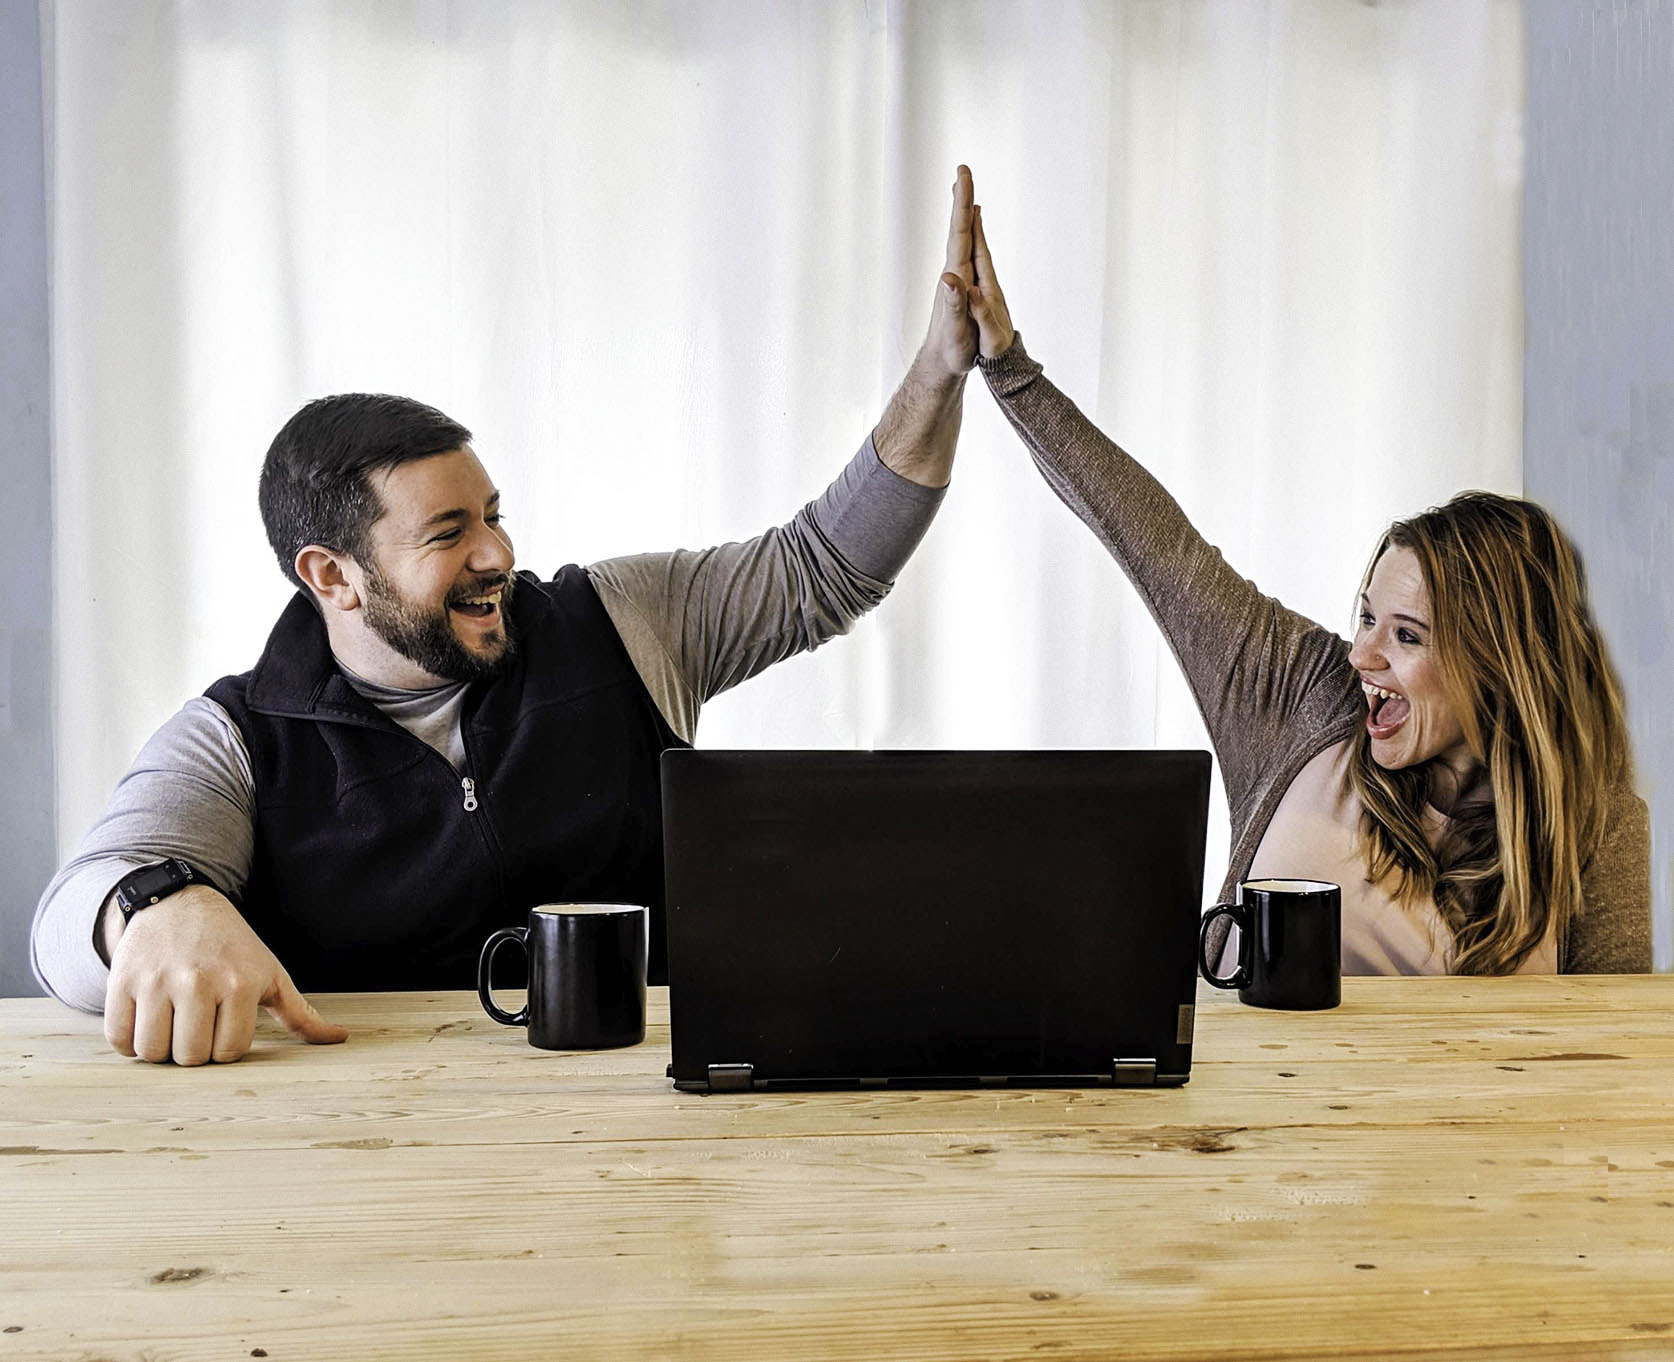
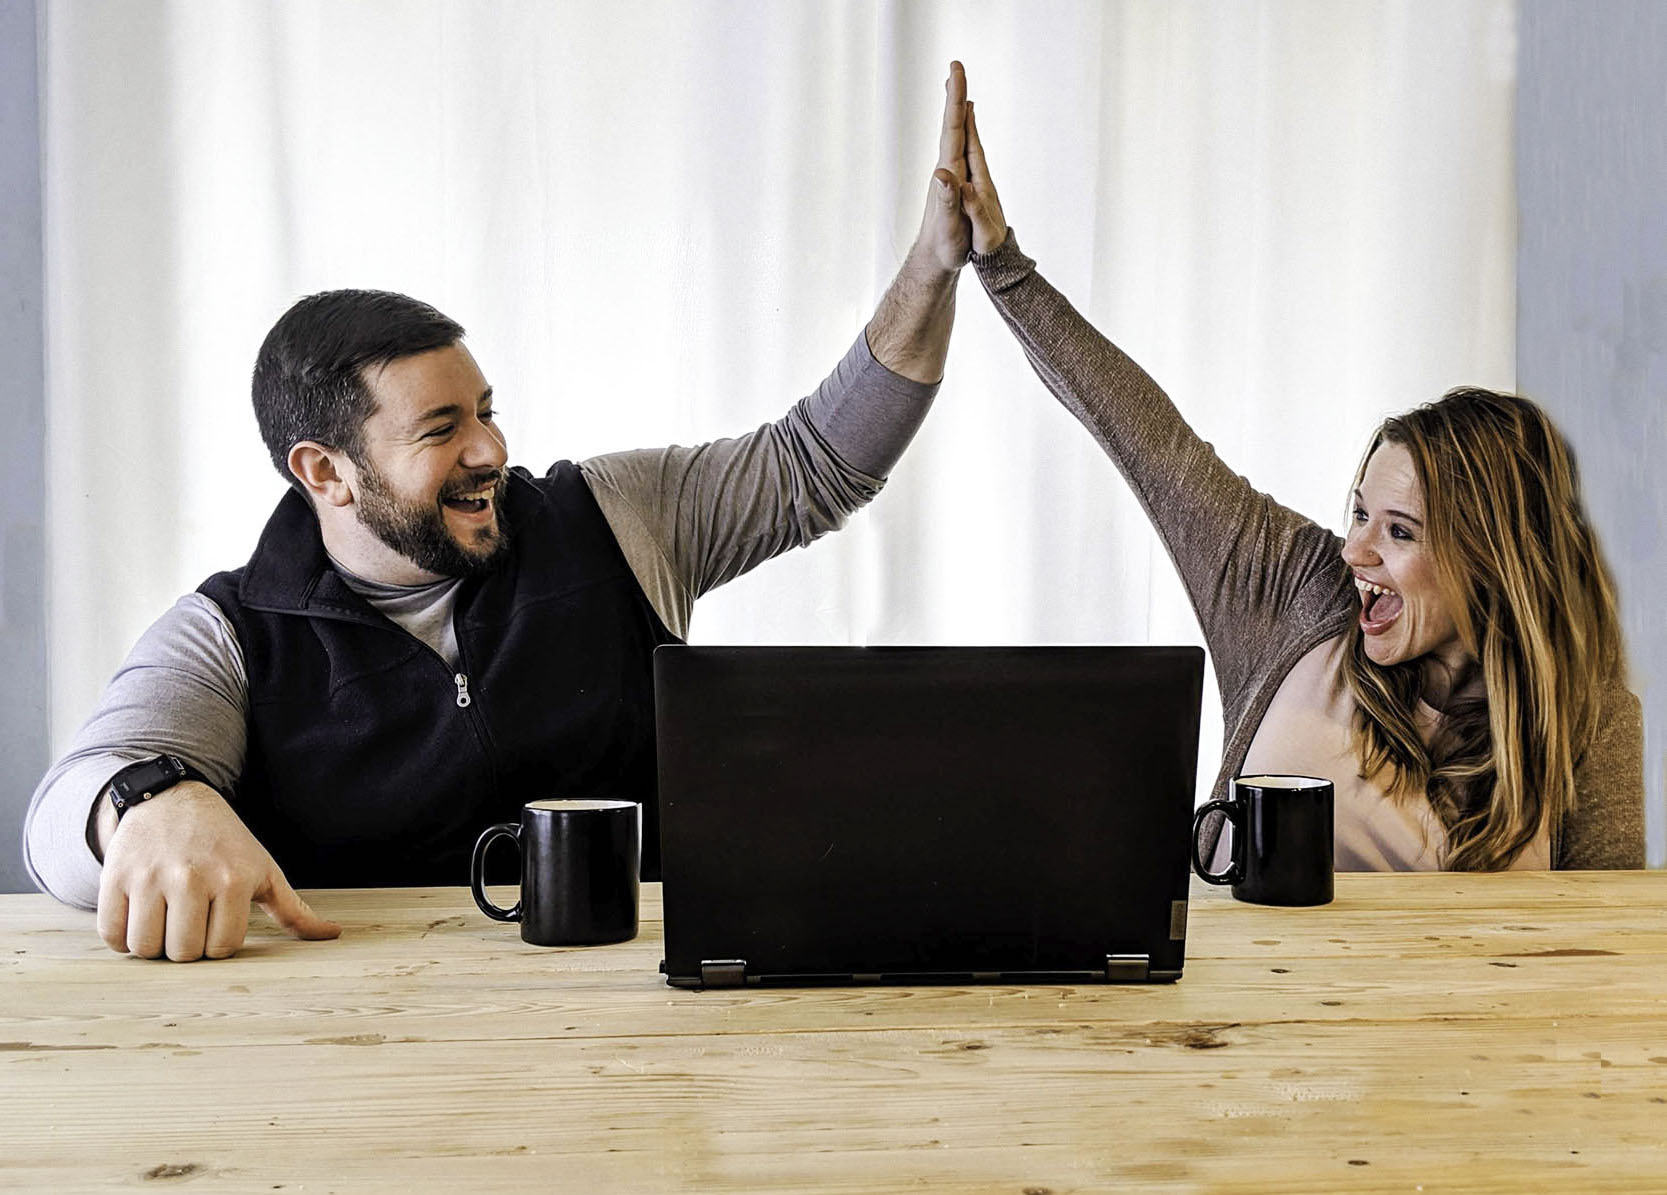
started updating the layout and components

diff --git a/src/pages/index.js b/src/pages/index.js
@@ -1,75 +1,66 @@
-import React, { Component } from 'react';
-import { Link } from 'gatsby';
-import Container from '../components/container';
-import Navbar from '../components/Navbar/Navbar';
-import Appnav from '../components/Navbar/AppNav';
-import SiteMetadata from '../components/Site-Metadata';
-import '../assets/main.css';
+import React, { Component } from "react";
+import { Link } from "gatsby";
+
+import Container from "../components/container";
+import Appnav from "../components/Navbar/AppNav";
+import SiteMetadata from "../components/Site-Metadata";
+import "../assets/main.css";
 
 export default class index extends Component {
   render() {
     return (
       <div style={{ height: `100%` }}>
         <SiteMetadata pathname={this.props.location.pathname} />
-        <Navbar />
-        <main className="home">
+        <main>
           <Container>
-            <div style={{ textAlign: `center`, marginTop: `4rem` }}>
-              <h1>websites.</h1>
-              <h1>social media.</h1>
-              <h1>online presence.</h1>
-              <h1>all local to 417.</h1>
+            <div
+              style={{
+                width: `100%`,
+                height: `100vh`,
+                backgroundImage: `url(https://res.cloudinary.com/tpage99/image/upload/v1550803731/web%20assets/highfive2.jpg)`,
+                backgroundPosition: `center center`,
+                backgroundRepeat: `no-repeat`,
+                objectFit: `cover`
+              }}
+            >
+              <h1>the pages media</h1>
             </div>
-            <section className="grid" style={{ marginTop: `4rem` }}>
-              <div className="text-block" style={{ padding: `0.5rem 2.5rem 0 2rem` }}>
-                <h2>who we are.</h2>
-                <p>
-                  Hi, we're the Pages! We're a married couple living in the Springfield area that enjoys helping
-                  companies we love become more accessible to others.
-                </p>
-                <p>
-                  We provide social media and web based solutions that help put local businesses within easy reach of
-                  people in the Springfield area, even if they don't know you yet.
-                </p>
+            <section>
+              <div>
+                <h2>services</h2>
               </div>
-              <img
-                src="https://res.cloudinary.com/tpage99/image/upload/v1550802820/web%20assets/website_1-2.jpg"
-                alt="kendra and taylor"
-                className="feature-img"
-              />
-            </section>
-            <section style={{ alignContent: `center`, marginTop: `4rem` }}>
-              <h2 style={{ textAlign: `center` }}>what are social media and web based solutions?</h2>
-              <div className="grid">
-                <div>
-                  <img
-                    src="https://res.cloudinary.com/tpage99/image/upload/v1546752856/web%20assets/KLSiteSkewedShadow.png"
-                    alt="kevin lane's catering website"
-                    className="img-fluid"
-                  />
-                  <h3 style={{ textAlign: `center` }}>websites</h3>
-                </div>
-                <div>
-                  <img
-                    src="https://res.cloudinary.com/tpage99/image/upload/v1546752861/web%20assets/photo_layers_3.png"
-                    alt="several pieces of created content including promotion for a marriage series, post for facebook engagement, and inspirational graphic stacked on top of each other"
-                    className="img-fluid"
-                  />
-                  <h3 style={{ textAlign: `center` }}>content creation</h3>
-                </div>
-                <div>
-                  <img
-                    src="https://res.cloudinary.com/tpage99/image/upload/v1546752858/web%20assets/FBSiteSkewedShadow.png"
-                    alt="facebook page for cash saver 417 located in springfield"
-                    className="img-fluid"
-                  />
-                  <h3 style={{ textAlign: `center` }}>social media</h3>
-                </div>
+              <div>
+                <h2>about</h2>
               </div>
-              <button>
-                <Link to="/services">Learn More About Our Services</Link>
-              </button>
+              <div>
+                <h2>blog</h2>
+              </div>
+              <div>
+                <h2>contact</h2>
+              </div>
             </section>
+            <footer>
+              <h3>pages</h3>
+              <ul>
+                <li>home</li>
+                <li>about</li>
+                <li>services</li>
+                <li>blog</li>
+                <li>contact</li>
+              </ul>
+              <h3>legal</h3>
+              <ul>
+                <li>accessibility statement</li>
+                <li>terms and conditions</li>
+                <li>privacy policy</li>
+              </ul>
+              <h3>contact</h3>
+              <p>the pages media</p>
+              <p>334 E. Kearney St., #116</p>
+              <p>Springfield, MO 65803</p>
+              <p>info@thepagesmedia.com</p>
+              <p>417.423.9253</p>
+            </footer>
           </Container>
         </main>
         <Appnav />

diff --git a/src/assets/main.css b/src/assets/main.css
@@ -13,13 +13,7 @@ p {
 
 body {
   height: 100%;
-  background: #c9d6ff; /* fallback for old browsers */
-  background: -webkit-linear-gradient(to left, #e2e2e2, #c9d6ff); /* Chrome 10-25, Safari 5.1-6 */
-  background: linear-gradient(
-    to left,
-    #f7f7f7,
-    #c9cdda
-  ); /* W3C, IE 10+/ Edge, Firefox 16+, Chrome 26+, Opera 12+, Safari 7+ */
+  background: whitesmoke; /* fallback for old browsers */
   color: var(--main-font-color);
 }
 

diff --git a/src/components/container.module.scss b/src/components/container.module.scss
@@ -1,5 +1,5 @@
 .container {
   margin: 0;
-  padding-left: 6%;
-  padding-right: 5%;
+  padding-left: 1%;
+  padding-right: 1%;
 }
